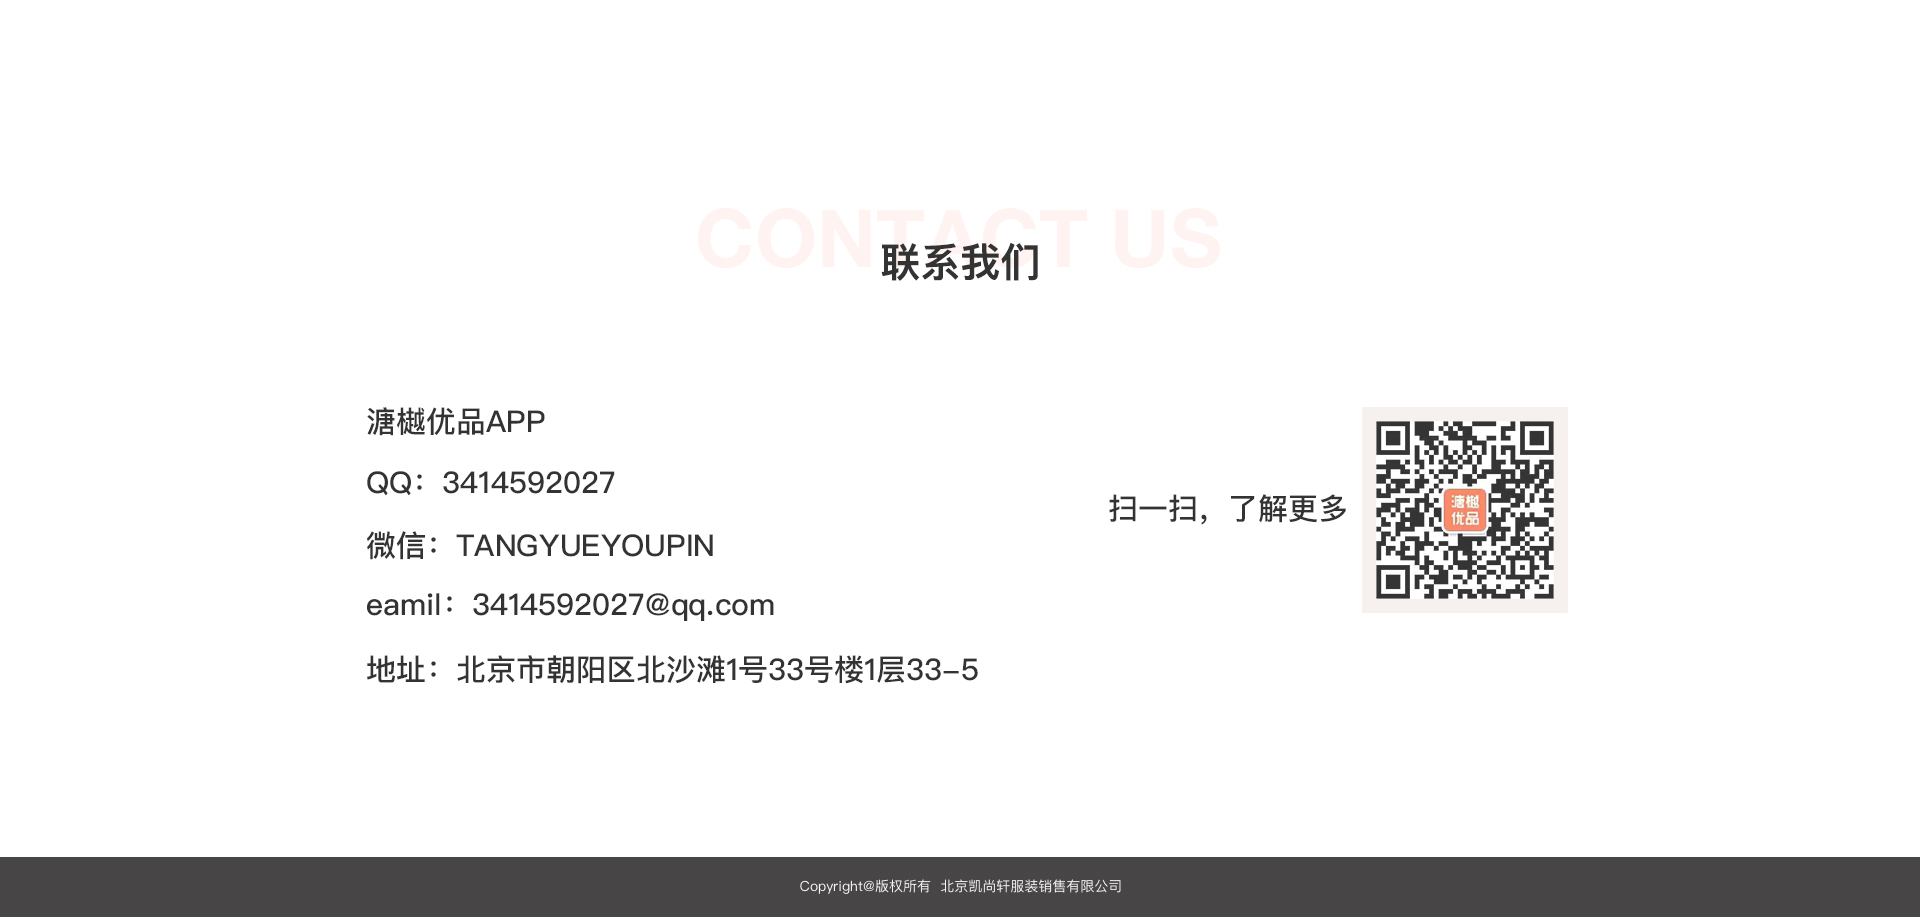
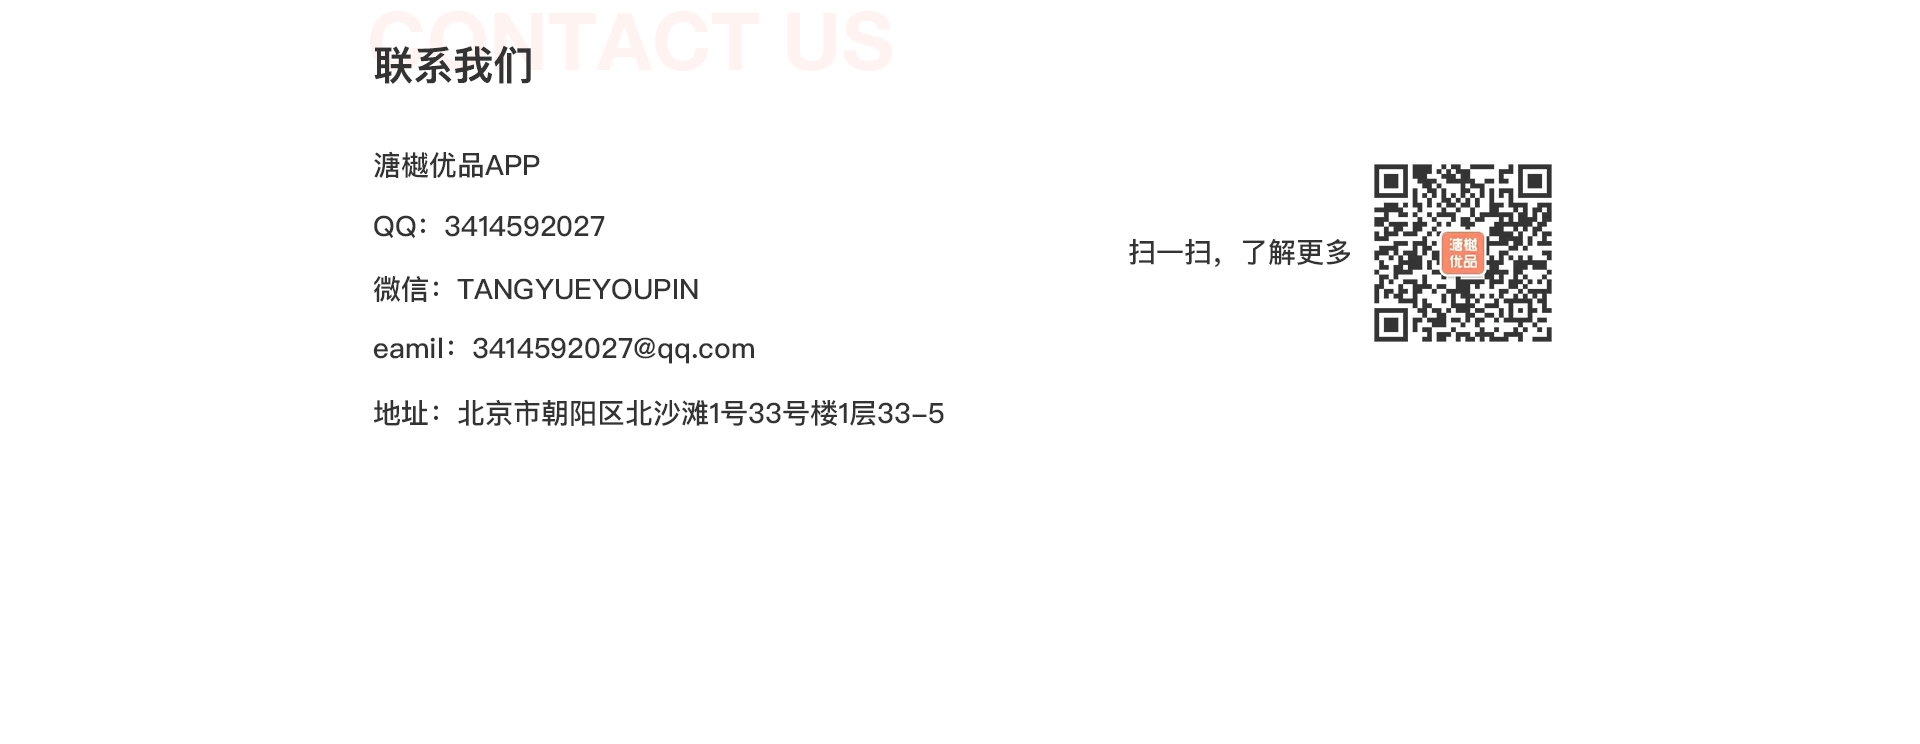
feat: v0.9

diff --git a/index.html b/index.html
@@ -32,10 +32,19 @@
             position: fixed;
             left: 0;
             top: 0;
+            z-index: 9;
+
+            display: -webkit-box;
+
+            display: -ms-flexbox;
 
             display: flex;
-            align-items: center;
-            justify-content: center;
+            -webkit-box-align: center;
+                -ms-flex-align: center;
+                    align-items: center;
+            -webkit-box-pack: center;
+                -ms-flex-pack: center;
+                    justify-content: center;
             width: 100%;
             height: 70px;
 
@@ -47,8 +56,12 @@
             background-color: rgba(0, 0, 0, 0.6);
         }
         .logo {
+            display: -webkit-box;
+            display: -ms-flexbox;
             display: flex;
-            align-items: center;
+            -webkit-box-align: center;
+            -ms-flex-align: center;
+                    align-items: center;
             margin-right: 170px;
         }
         .logo > img {
@@ -59,8 +72,12 @@
             margin-top: 10px;
         }
         .navList {
+            display: -webkit-box;
+            display: -ms-flexbox;
             display: flex;
-            align-items: center;
+            -webkit-box-align: center;
+            -ms-flex-align: center;
+                    align-items: center;
 
             list-style: none;
             padding: 0;
@@ -77,14 +94,39 @@
             color: #fdff4e;
             border-bottom-color: currentColor;
         }
+        .cont {
+            height: 100vh;
+            display: -webkit-box;
+            display: -ms-flexbox;
+            display: flex;
+            -webkit-box-orient: vertical;
+            -webkit-box-direction: normal;
+            -ms-flex-direction: column;
+                    flex-direction: column;
+            -webkit-box-pack: center;
+            -ms-flex-pack: center;
+                    justify-content: center;
+        }
+        .cont:first-child {
+            -webkit-box-pack: start;
+            -ms-flex-pack: start;
+            justify-content: flex-start;
+        }
+        .cont:last-child {
+            position: relative;
+        }
         .cont img {
             display: block;
             width: 100%;
         }
         .contPlaceholder {
-            height: 100px;
+            height: 0px;
         }
-        .ft {
+        .copyRight {
+            position: absolute;
+            bottom: 0;
+
+            width: 100%;
             height: 60px;
 
             font-size: 14px;
@@ -107,10 +149,14 @@
     </div>
     <div class="bd">
         <div class="cont"><img src="./images/web_01.gif" /></div>
-        <div class="cont"><img src="./images/web_02.gif" /><div class="contPlaceholder"></div></div>
+        <div class="cont"><img src="./images/web_02.gif" /></div>
         <div class="cont"><img src="./images/web_03.gif" /></div>
-        <div class="cont"><img src="./images/web_04.jpg" /></div>
+        <div class="cont">
+            <img src="./images/web_04.jpg" />
+            <div class="copyRight">Copyright@版权所有  北京凯尚轩服装销售有限公司</div>
+        </div>
     </div>
+    
     <script src="https://cdn.bootcss.com/jquery/1.11.3/jquery.min.js"></script>
     <script>
         window.onload = function () {
@@ -120,12 +166,14 @@
 
             function init() {
                 scrollHeightList = [];
-                const contDomList = $.makeArray($('.cont'));
+                var windowHeight = $(window).innerHeight();
+                var contDomList = $.makeArray($('.cont'));
 
                 for(var i = 0; i < contDomList.length; i++) {
                     var prevScrollHeight = (scrollHeightList[i - 1] || {}).max || -200;
                     var currScrollHeight = $(contDomList[i]).innerHeight() + prevScrollHeight;
-                    scrollHeightList.push({ min: prevScrollHeight, max: currScrollHeight, curr: prevScrollHeight + 150 });
+
+                    scrollHeightList.push({ min: prevScrollHeight, max: currScrollHeight, curr: prevScrollHeight + 200 });
                 }
 
                 changeNavItemStatusByScroll($(window).scrollTop());
